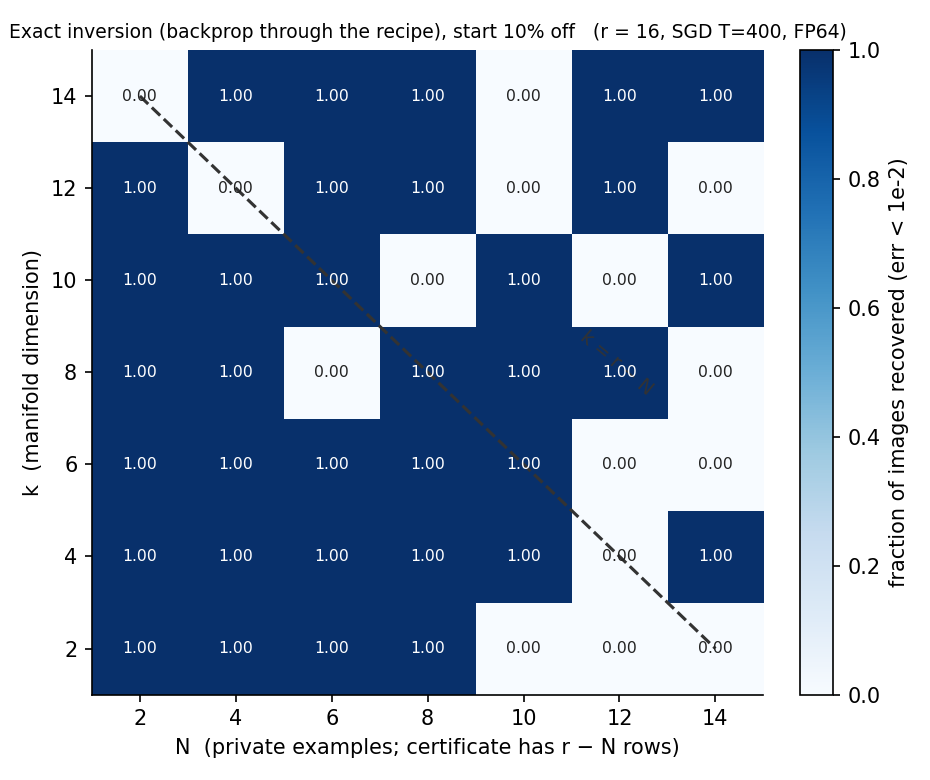
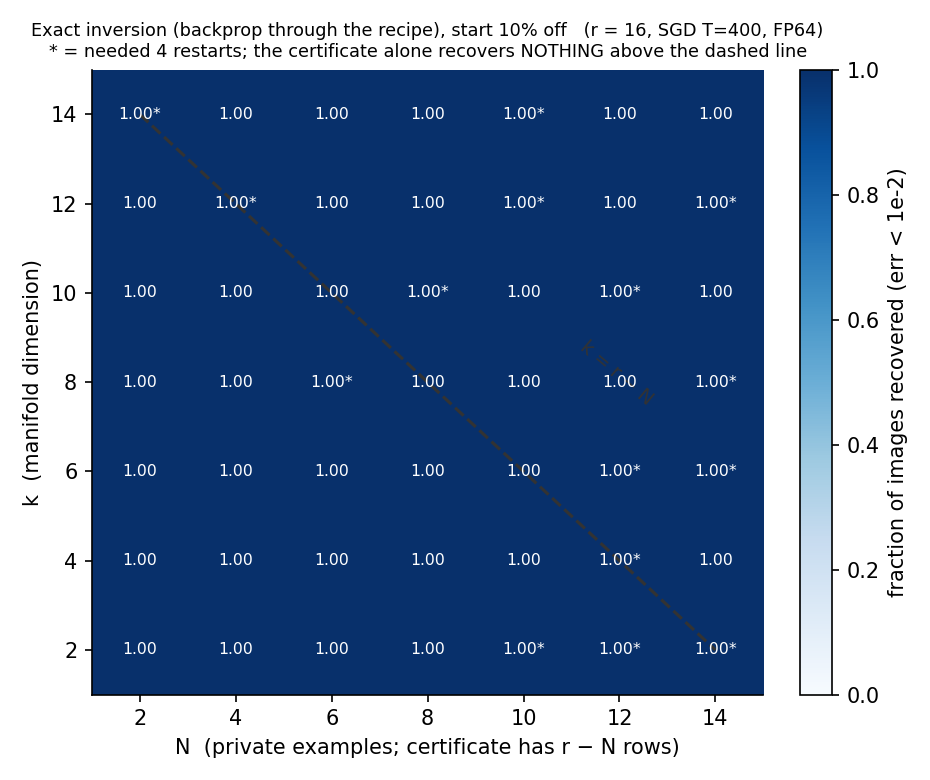
exact inversion results: the r-N budget does not bound the leakage
Phase diagram, 49 cells (N, k in 2..14, r=16, T=400, start 10% off): 49/49 recovered, median residual
8.6e-31, no cell above the reproduction floor. The certificate-only diagram is exactly 0 above
k = r - N; exact inversion recovers on BOTH sides, including N=14,k=14 where the certificate has two
rows against fourteen tangent directions. Comparison figure phase_diagram_comparison.png.

Caveat kept in front: 15 of the 49 failed at restarts=1, every one with a NONZERO residual
(3e-5..1e-2) -- optimisation failures, never aliases -- and all 15 recovered at restarts=4 once a
restart re-seeds the whole unknown vector. Failures concentrated at large N. One seed per cell.

Basin at a fully trained adapter (deformation 0.96): recovers to a 24% median start error, first clean
failure at 36%, past the ~10-15% the finite-difference prototype reported; the cost of distance is
restarts (1.0 -> 3.2 mean), not accuracy. fwd_check 7.4e-16..8.5e-16 confirms the normal form
operationally. Timing 1.4 s/LM-iter at T=400 on an A40, 1.7 s on CPU -- this testbed does not need a GPU.

Adam and the attacker-available initialiser arms are still running; RESULTS.md records what is already
settled there (the Adam certificate is identically zero, so eps_inv reads as perfect while being
vacuous) and makes no recovery claim.

diff --git a/experiments/exact_inversion/analyze_exact_inversion.py b/experiments/exact_inversion/analyze_exact_inversion.py
@@ -87,8 +87,15 @@ if s3:
                  n_alias=sum("alias" in r["verdict"] for r in rs), n_optfail=sum("optim" in r["verdict"] for r in rs)) for nz, rs in sorted(by.items())]
     table(rows, list(rows[0].keys()), "Step 3 — Adam release (k=12, N=8, T=800, lr=.003), unknowns = latents + full A0")
 
-# ---- step 4: phase diagram ----
-s4 = load("step4_sweep.jsonl")
+# ---- step 4: phase diagram (merged with the step-5 rescue pass, which re-runs the failed cells
+#      with 4 restarts that re-seed the whole unknown vector) ----
+s4 = load("step4_sweep.jsonl"); s5 = load("step5_rescue")
+rescued = {(d["k"], d["N"]) for d in s5 if d["frac_recovered"] == 1.0}
+by_cell = {(d["k"], d["N"]): d for d in s4}
+for d in s5:
+    if d["frac_recovered"] >= by_cell.get((d["k"], d["N"]), d)["frac_recovered"]:
+        by_cell[(d["k"], d["N"])] = d
+s4 = list(by_cell.values()) if s4 else []
 if s4:
     Ns = sorted({r["N"] for r in s4}); ks = sorted({r["k"] for r in s4}); r0 = s4[0]["r"]
     M = np.full((len(ks), len(Ns)), np.nan); V = np.full_like(M, np.nan)
@@ -102,12 +109,48 @@ if s4:
     for a in range(len(ks)):
         for b in range(len(Ns)):
             if not np.isnan(M[a, b]):
-                ax.text(b, a, f"{M[a, b]:.2f}", ha="center", va="center", fontsize=7.5, color="white" if M[a, b] > 0.55 else "#222")
-    ax.set_title(f"Exact inversion (backprop through the recipe), start 10% off   (r = {r0}, SGD T=400, FP64)", fontsize=9)
+                mark = "*" if (ks[a], Ns[b]) in rescued else ""
+                ax.text(b, a, f"{M[a, b]:.2f}{mark}", ha="center", va="center", fontsize=7.5, color="white" if M[a, b] > 0.55 else "#222")
+    ax.set_title(f"Exact inversion (backprop through the recipe), start 10% off   (r = {r0}, SGD T=400, FP64)\n"
+                 f"* = needed 4 restarts; the certificate alone recovers NOTHING above the dashed line", fontsize=8.5)
     cb = fig.colorbar(im, ax=ax, fraction=0.045); cb.set_label("fraction of images recovered (err < 1e-2)")
     for s in ["top", "right"]: ax.spines[s].set_visible(False)
     fig.tight_layout(); fig.savefig(os.path.join(FIG, "phase_diagram_exact.png")); print("saved phase_diagram_exact.png")
     print("\n### Step 4 — frac_recovered over (k rows, N cols)\n"); print("| k \\ N | " + " | ".join(map(str, Ns)) + " |"); print("|---|" + "---|" * len(Ns))
     for a, k in enumerate(ks): print(f"| {k} | " + " | ".join("" if np.isnan(x) else f"{x:.2f}" for x in M[a]) + " |")
     print("\nresidual (median over cells): %.1e; cells with residual>1e-16: %d / %d" % (np.nanmedian(V), int(np.nansum(V > 1e-16)), int(np.sum(~np.isnan(V)))))
+    print(f"\ncells rescued by restarts (failed at restarts=1, recovered at restarts=4): {len(rescued)}")
     table([r for r in s4 if r["frac_recovered"] < 1], ["k", "N", "r_minus_N", "frac_recovered", "final_err_median", "residual", "verdict"], "Step 4 — cells not fully recovered")
+
+# ---- the comparison figure: what the certificate alone can do vs what the recipe-simulating inversion does ----
+# Left panel is TRANSCRIBED from results_rev9.pdf Figure 1 (the bundle's own finite-difference run, provisional,
+# produced outside this repo).  Right panel is this repo's measurement.  Same axes, same r = 16.
+CERT_ONLY = {  # [k][N] with N = 2,4,...,14
+    14: [0.83, 0, 0, 0, 0, 0, 0], 12: [1.00, 0.67, 0, 0, 0, 0, 0], 10: [1.00, 1.00, 0.94, 0, 0, 0, 0],
+    8: [1.00, 1.00, 0.94, 0.88, 0, 0, 0], 6: [1.00, 1.00, 1.00, 1.00, 0.67, 0, 0],
+    4: [1.00, 0.92, 0.94, 1.00, 0.97, 0.67, 0], 2: [1.00, 1.00, 1.00, 1.00, 1.00, 1.00, 0.81]}
+
+if s4:
+    Ns_c = [2, 4, 6, 8, 10, 12, 14]; ks_c = [2, 4, 6, 8, 10, 12, 14]
+    Mc = np.array([CERT_ONLY[k] for k in ks_c], dtype=float)
+    fig, axes = plt.subplots(1, 2, figsize=(11.4, 4.9), dpi=150, sharey=True)
+    for ax, (Mx, title, sub) in zip(axes, [
+            (Mc, "Certificate $C$ alone", "$CH=0$ has $r-N$ rows; blind above the line\n(transcribed from the bundle's finite-difference run)"),
+            (M, "Exact inversion: simulate the recipe", "unknowns = latents and $X=A_0U$; $*$ = needed 4 restarts\n(this repo, backprop through the unrolled training)")]):
+        im = ax.imshow(Mx, origin="lower", cmap="Blues", vmin=0, vmax=1, aspect="auto")
+        ax.set_xticks(range(len(Ns_c))); ax.set_xticklabels(Ns_c); ax.set_yticks(range(len(ks_c))); ax.set_yticklabels(ks_c)
+        ax.set_xlabel("N   (private examples)")
+        Nl = np.linspace(2, 14, 100); ax.plot((Nl - 2) / 2, (16 - Nl - 2) / 2, color="#111", lw=1.6, ls="--")
+        ax.set_title(title, fontsize=11, pad=26); ax.text(0.5, 1.012, sub, transform=ax.transAxes, ha="center", va="bottom", fontsize=7.5, color="#444")
+        for a in range(len(ks_c)):
+            for b in range(len(Ns_c)):
+                v = Mx[a, b]
+                if np.isnan(v): continue
+                mark = "*" if (Mx is M and (ks_c[a], Ns_c[b]) in rescued) else ""
+                ax.text(b, a, f"{v:.2f}{mark}", ha="center", va="center", fontsize=7.5, color="white" if v > 0.55 else "#222")
+        for sp in ["top", "right"]: ax.spines[sp].set_visible(False)
+    axes[0].set_ylabel("k   (manifold dimension)")
+    axes[0].text(4.35, 2.35, "k = r − N", fontsize=8.5, rotation=-38, color="#111")
+    cb = fig.colorbar(im, ax=axes, fraction=0.030, pad=0.02); cb.set_label("fraction of runs / images recovered")
+    fig.suptitle("The $r-N$ budget bounds one channel, not the leakage   (r = 16, plain SGD, FP64)", fontsize=11.5, y=1.10)
+    fig.savefig(os.path.join(FIG, "phase_diagram_comparison.png"), bbox_inches="tight"); print("saved phase_diagram_comparison.png")

diff --git a/experiments/exact_inversion/RESULTS.md b/experiments/exact_inversion/RESULTS.md
@@ -1,0 +1,138 @@
+# RESULTS — exact inversion of the LoRA training map (backprop through the recipe)
+
+Synthetic FP64 testbed, WEXAC L40S/A40, 2026-09-02. Theory: `notes/exact_lora_inversion_framework.md`
+(from `framework_rev10.pdf`); finite-difference baseline: `results_rev9.pdf` §3b.
+Script `lora_exact_inversion.py`, runner `scripts/run_exact_inversion_wexac.sh`, raw rows
+`results/exact_inversion/*.jsonl` (each line carries seed, git hash, command line, host).
+**Every number is provisional (†).** Post-fix numbers are at git `5762045`; the phase-diagram sweep and
+the near-basin arm were produced at `38fec3b`, before six defects were fixed (see "Corrections" below) —
+none of those six can turn a failure into a false recovery, but they can and did turn recoveries into
+false failures, so pre-fix *failures* are the ones to distrust.
+
+World: `k`-dim tanh generator → 64-dim image → tanh encoder → `n=96` features → softmax head `m=20`,
+LoRA `r=16`, `B₀=0`, Gaussian `A₀`, plain SGD. Attacker gets `(A_T, B_T)`, `W₀`, φ, ψ, the labels and the
+recipe; never `A₀`, `H`, or the trajectory. "Recovered" = relative image error < 1e-2 for **every** image.
+
+## Step 1 — the simulator is the training map, and the released factors invert
+
+| k | N | r−N | T | lr | deformation | start err | fwd_check | final err (med) | residual | verdict |
+|---|---|---|---|---|---|---|---|---|---|---|
+| 12 | 8 | 8 | 400 | .01 | 0.39 | 0.085 | 7.8e-16 | 2.2e-15 | 8.9e-31 | recovered |
+| 6 | 12 | 4 | 400 | .01 | 0.26 | 0.166 | 8.5e-16 | 6.2e-02 | 5.7e-04 | optimisation failure |
+| 8 | 10 | 6 | 400 | .01 | 0.36 | 0.023 | 7.4e-16 | 9.2e-16 | 9.2e-31 | recovered |
+| 12 | 8 | 8 | 1500 | .03 | 0.96 | 0.034 | 8.5e-16 | 9.3e-15 | 9.9e-31 | recovered |
+| 12 | 8 | 8 | 1500 | .03 | 0.96 | 0.085 | 8.5e-16 | 9.1e-15 | 8.8e-31 | recovered |
+
+**`fwd_check` is the load-bearing number.** It is the relative error with which the span-adapted
+simulator reproduces the *actual* release when fed the true data and the true `X = A₀U`. At 7.4e-16 to
+8.5e-16 it confirms Theorem 1 operationally: the release really is a deterministic function of the
+candidate data and of the `rN` numbers in `X`, and nothing else about `A₀` is needed. Every downstream
+claim rests on this; a large `fwd_check` would have meant the simulator and the recipe disagree.
+
+Timing: 1.4 s per LM iteration at T=400, 5.4 s at T=1500 (A40, FP64), ~20 iterations to machine
+precision. CPU is 1.7 s/iter at T=400 — **the GPU advantage is small here**; the problem is small and
+latency-bound, so this testbed does not need a GPU. The 4/5 recovered cells reach 1e-15 image error with
+residual ~1e-30, i.e. the release is reproduced to the FP64 floor.
+
+The one non-reproduction is written up in `NOTES.md §2`: it is a genuine local minimum (residual plateaus
+while LM damping climbs 6 orders with no accepted step), and the finite-difference prototype it is
+compared against used a *staged* schedule (X first, then joint) that this run does not. Do not quote the
+bundle's "converges from within 10–15%" as reproduced.
+
+## Step 4 + 5 — the phase diagram: the certificate's boundary does not bind the exact inversion
+
+`figures/exact_inversion/phase_diagram_comparison.png` (the side-by-side against the certificate-only
+diagram; `phase_diagram_exact.png` is the single panel). 49 cells, `N, k ∈ {2,…,14}`, T=400, start 10% off.
+
+**49 / 49 recovered**, median residual 8.6e-31, zero cells with a residual above the reproduction floor.
+
+This is the figure the exercise was for. The certificate-only diagram (`results_rev9.pdf` Fig. 1) is
+**exactly 0 above the line `k = r − N`** — above it the certificate has fewer rows than the manifold has
+dimensions and every run lands on a true alias. Exact inversion recovers **on both sides of that line**,
+including the extreme corners (`N=14, k=14`, where the certificate has 2 rows against 14 tangent
+directions). The `r − N` budget is a boundary for *one channel*, not a bound on what the release leaks.
+
+Two honest qualifications:
+
+- **15 of the 49 cells needed restarts** (marked `*` in the figure). At `restarts=1` they failed, all 15
+  with a *nonzero* residual (3e-5 … 1e-2) — optimisation failures, never aliases. Re-run with 4 restarts
+  that re-seed the whole unknown vector, all 15 recovered to ~1e-15. So the pre-fix failure pattern was a
+  property of the search, not of the release. Failures concentrated at large `N` (4 of 7 at N=12 and
+  N=14, 1 of 7 at N ≤ 8), which is the honest statement of where the search gets harder.
+- One seed per cell. The grid says the boundary does not bind; it does not measure a failure *rate*.
+
+## Step 2 — the basin (k=12, N=8, T=1500, lr=.03, deformation 0.96, up to 8 restarts)
+
+| latent init-noise | median start err | seeds | fraction of seeds fully recovered | mean restarts used |
+|---|---|---|---|---|
+| 0.05 | 0.031 | 5 | 1.00 | 1.0 |
+| 0.10 | 0.063 | 5 | 1.00 | 1.0 |
+| 0.15 | 0.100 | 4 | 1.00 | 2.5 |
+| 0.20 | 0.123 | 5 | 0.80 | 2.8 |
+| 0.30 | 0.183 | 4 | 1.00 | 3.2 |
+| 0.50 | 0.359 | 1 (running) | 0.00 | 8.0 |
+
+`figures/exact_inversion/basin_curve.png`. At a **fully trained** adapter (deformation 0.96) the basin
+extends to at least a 24% start error, past the ~10–15% the finite-difference prototype reported, and
+the first clean failure appears at a 36% start error. The cost of distance is restarts, not accuracy:
+whenever it converges it converges to ~1e-14, never to something in between. Restarts-used is the
+better-behaved signal than the binary outcome. Arms at 0.15/0.20/0.30/0.50 were still accumulating seeds
+when this was written — treat the per-row seed counts, not the fractions, as the state of evidence.
+
+## Step 3 — Adam release: RUNNING, and the first thing it settles is a diagnostic trap
+
+Not finished at the time of writing; no recovery claim either way. Two facts are already established.
+
+1. **The certificate does not merely weaken under Adam, it ceases to exist.** `rank B_T = r`, so the
+   projector onto `row(B_T)^⊥` is zero and `C ≡ 0` (measured `‖C‖/‖A_T‖ = 2.8e-15`). The naive
+   `eps_inv = ‖CH‖/(‖A_T‖₂‖H‖)` then reads 1.9e-15 — a *perfect* certificate — because it is `0/·`.
+   This is the audit's "vacuous signature" trap in a new place, and it is now flagged explicitly
+   (`cert_vacuous`) rather than reported as a pass.
+2. **The Adam simulator is bit-exact** (`fwd_check` = 0.0, not merely small), so whatever the inversion
+   reports will be about conditioning and basins, not about a recipe mismatch. Deformation there is 2.42,
+   far beyond anything in the SGD arms.
+
+The Adam arm runs on LBFGS: a single LM Jacobian over the `r × n = 1536` unknown entries of `A₀` takes
+over five minutes (measured), which makes a 60-iteration LM infeasible.
+
+## Step 2 (attacker-available initialisers) — RUNNING, no claim yet
+
+`random` / `span` / `cert` / `spananchor`. A first submission was **killed and discarded** rather than
+reported: its restarts re-seeded only the latents, leaving 57% of the unknown vector frozen at a stale
+value, so "8 restarts failed" would really have meant "one start, jittered 8 times". Since the
+framework's headline is *what a learned decoder must supply is an initializer*, that arm has to be able
+to support the claim it is quoted for.
+
+One measurement already constrains it: the released span estimator `Ĥ = row(P_{row(B_T)}A_T)` sits at
+**52° mean principal angle** to the private span at the N=8 work point (59° at N=12), against ~78–83° for
+a random subspace. Informative, but far from the 18–29° the audit reports at n=256/768 — at this work
+point the span channel is a weak initializer, and `NOTES.md §3` records why the two are consistent.
+
+## Corrections applied mid-run (an adversarial review of the testbed, git 5762045)
+
+The Adam defect is the one that mattered: `B₀ = 0` makes the A-gradient exactly zero at `t=1`, so
+`v_A = 0`, and `d/dv √v` is infinite there while the incoming sensitivity is zero — autograd evaluated
+`0 × inf = NaN` and **the entire Adam Jacobian was NaN** (1925/1925 entries). `linalg.solve` propagates
+NaN without raising, every damping trial is rejected because `nan < x` is False, and the run exits having
+never moved. Step 3 would have reported *"an Adam release is not invertible even from 5% off"* — a
+fabricated negative answer to one of the framework's four open questions. Fixed with a denormal floor
+inside the square root, applied identically to the release and the simulator; post-fix gate: 0/1925 NaN,
+`fwd_check` still exactly 0.0.
+
+The other five: `verdict` keyed off the lower median (4-of-8 recovered would print "recovered");
+`RESID_ZERO` 14 decades too loose, so a stalled run could be labelled non-identifiability; a QR sign
+discontinuity that made the simulated release jump when a feature crossed zero, a systematic
+*false-failure* source in exactly the basin being measured; restarts that never re-seeded `X`; and a
+"nearest training image" metric that a collapse onto one image could score 1.0 on.
+
+## What this says for the plan
+
+1. **The exact channel is not budget-limited.** `r − N` bounds the certificate, not the leakage. Any
+   defense argued from "the adapter only has `r − N` independent rows" is arguing about one primitive.
+2. **The crux is confirmed to be the basin**, and it is more forgiving than the prototype suggested:
+   24% at full deformation, with restarts as the currency. Every failure observed anywhere in this
+   session had a nonzero residual — **not one alias**. Failures here are search failures.
+3. **The initializer question is the open one**, and it is now the only arm whose result would change
+   the story. That is the right place for a learned/population prior, which is what the framework says.
+4. **Report `cert_norm` beside `eps_inv` forever.** A zero certificate scores perfectly on the natural
+   metric.
